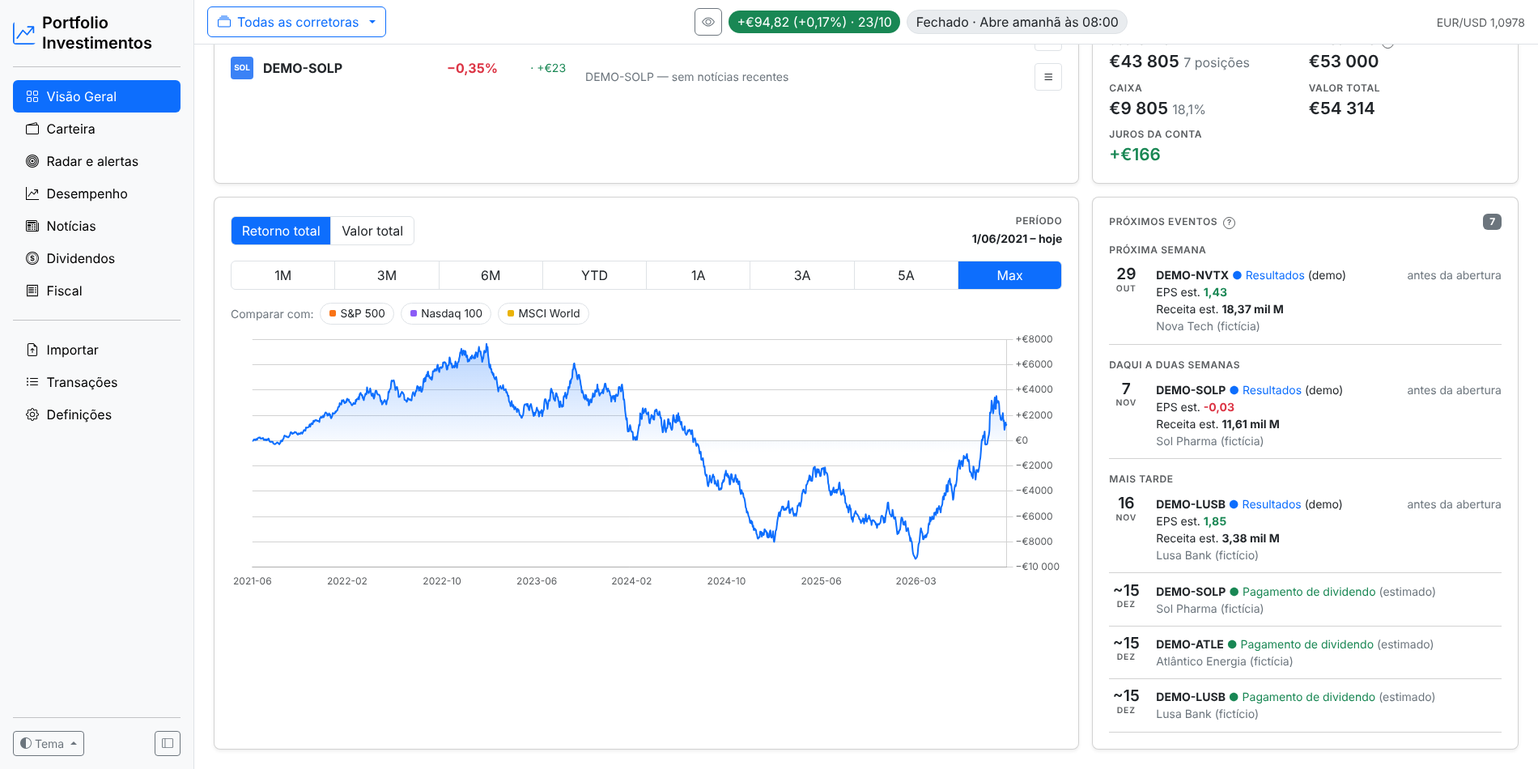
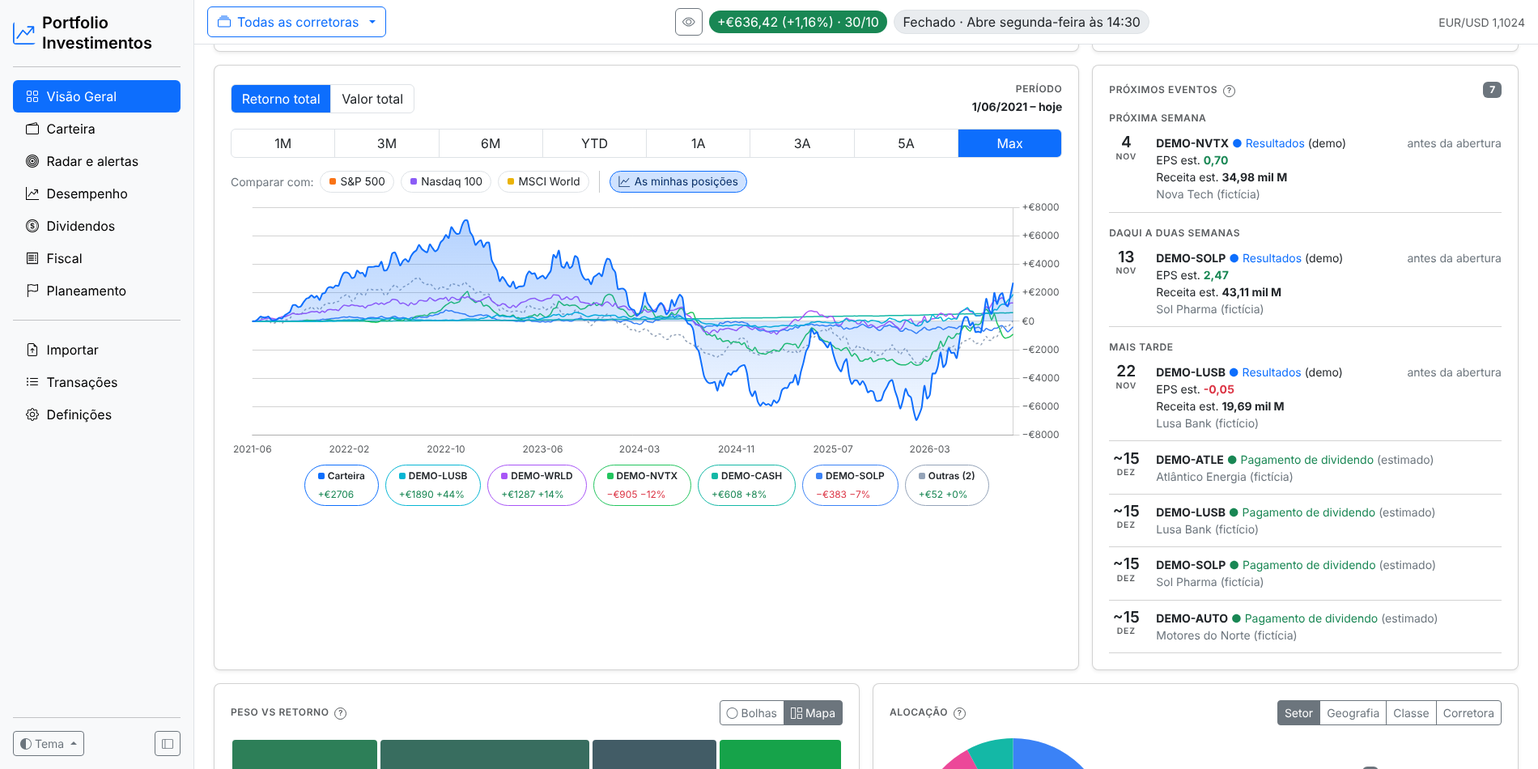
README com capturas novas e descrição das funcionalidades; histórico de alterações
- Capturas de ecrã refeitas com os dados de demonstração (1900×950, modo
  claro e escuro), com as novidades: perfil de investidor e notas, peso vs
  retorno e alocação, as minhas posições no gráfico, mapa de dividendos
  com o próximo ano e datas ex-dividendo, Fiscal por ativo e Planeamento
  (FIRE). Removidas as capturas antigas (incluíam a página Notícias).
- Tabela de funcionalidades atualizada (Visão Geral, Dividendos, Fiscal,
  Planeamento, Importar, Transações e Definições) e corrigida a linha do
  Planeamento, que tinha ficado por engano no meio da tabela das capturas.
- Novo CHANGELOG.md com o que mudou em cada commit (título, resumo e
  issues fechadas), ligado a partir do README.

Claude-Session: https://claude.ai/code/session_01AhMv5rzh4esVFWwNf2sje8

diff --git a/CHANGELOG.md b/CHANGELOG.md
@@ -1,0 +1,161 @@
+# Histórico de alterações
+
+O que mudou em cada commit, do mais recente para o mais antigo (gerado a partir das mensagens dos commits). Os números entre parênteses são as issues do GitHub resolvidas.
+
+## 2026-10-31
+
+- **Planeamento: cor da linha do gráfico no título de cada número FIRE** `fc31f3d`  
+  Os títulos "Para sempre", "Para sempre, com a pensão" e "Até aos N anos" passam a ter a cor e uma amostra da linha tracejada correspondente no gráfico (laranja, roxa e rosa).
+- **Planeamento: números FIRE como linhas tracejadas no gráfico** `cbdbdff`  
+  O gráfico Evolução e projeção mostra os números FIRE como linhas horizontais tracejadas, cada uma com a sua cor e o valor na legenda: laranja "para sempre", roxa "para sempre, com a pensão aos 67" e rosa "até aos N anos, com a pensão aos 67" (estes dois na data FIRE do cenário base). Substitui a curva do capital necessário até ao fim.
+- **Planeamento: número FIRE "para sempre" com a pensão** `082dc56`  
+  Novo bloco "Para sempre, com a pensão" (engine/fire.py, pension_plan): o capital necessário tem duas partes, calculadas mês a mês para trás desde a idade da pensão: - até à pensão, a carteira paga as despesas todas (com o IRS dos levantamentos), a render a taxa real do cenário; - a partir da pensão, o que ela não cobre, pela regra da taxa de levantamento: (despesas − pensão) ÷ (1 − imposto) ÷ taxa. O número depende da idade em que se chega lá; a página mostra-o na data FIRE do cenário base, a parte "depois da pensão", quanto seria preciso hoje e a data nos três cenários. O número "para sempre" de sempre passa a dizer "sem contar com a pensão".
+- **Planeamento: depois da data FIRE deixa de investir e passa a levantar; investir até uma idade** `2d23f9a`  
+  Cada cenário tem agora duas fases (engine/fire.py, simulate): - até à data FIRE junta o investimento mensal, ou só até à idade indicada em "Investir até aos" (novo campo opcional); - a partir da data FIRE deixa de investir e levanta o que as despesas pedem, já com o IRS dos levantamentos, menos a pensão a partir da idade dela. Com a idade preenchida, o gráfico vai até à idade "durar até" e marca a data FIRE de cada cenário; a tabela dos cenários diz a idade na data FIRE e até quando dura o dinheiro (ou o ano em que acaba).
+- **Planeamento: capital necessário até uma idade, com a pensão** `16c3e29`  
+  Além do número FIRE "para sempre" (regra dos 4%), com a idade indicada a página calcula o capital que paga as despesas desde a data FIRE até uma idade (90 anos por omissão) e pode acabar perto de zero: - necessário(mês) = levantamento do mês (despesas menos a pensão, a partir da idade indicada, já com o IRS dos levantamentos) + necessário do mês seguinte descontado à taxa real do cenário; - a data FIRE é o primeiro mês em que a carteira projetada chega ao necessário nesse mês (o último ano não conta); - mostra o capital na data FIRE e a idade, a parte já feita se te reformasses hoje, a data nos três cenários e a curva no gráfico. A pensão líquida mensal conta 14 vezes por ano.
+- **README: Planeamento já existe** `7748e9c`  
+  Atualiza a lista do que falta fazer.
+- **Planeamento: independência financeira (FIRE)** `4f7fd20`  
+  Nova página Planeamento (menu lateral), com o motor em engine/fire.py: - número FIRE = despesas anuais ÷ (1 − imposto efetivo sobre os levantamentos) ÷ taxa de levantamento (4% por omissão); - já feito = valor atual da carteira ÷ número FIRE; - data FIRE em três cenários (3%, 5% e 7% reais ao ano, em euros de hoje), mês a mês com o investimento mensal; - gráfico com o valor real até hoje, as três projeções e o número FIRE; - acompanhamento dos últimos 12 meses (valor, variação e parte feita). Os parâmetros guardam-se (ação save_fire); por omissão, o investimento mensal é a média dos depósitos líquidos dos últimos 12 meses e o imposto é 28% × a parte de ganho da carteira (pelo menos metade). A página também fica disponível offline.
+- **Visão Geral: perfil de investidor com notas, peso vs retorno e alocação** `d090322`  
+  Investor Score e Portfolio Score (0-100, últimos 3 anos), num módulo novo (engine/scores.py): - seis perfis (Passive Index, Concentrated Picker, Diversified Active, Income Focus, Growth/Tech, Active Trader), cada um com as métricas e os pesos do Investor Score; o perfil sugerido sai do comportamento (rotação da carteira) e da composição (ETF, dividendos, tecnologia, nº de ações); o escolhido fica guardado (ação set_profile); - métricas: superação do S&P 500 / MSCI World / Nasdaq 100, fidelidade ao índice, disciplina, paciência, Sharpe, coerência, grandes vencedores, assimetria, acerto, fator de lucro e corte das perdas; - Portfolio Score: concentração, diversificação (setores e países), volatilidade, custos e proximidade ao MSCI World. Cada métrica tem a fórmula e o valor atual no "?"; sem dados suficientes fica "—" e não conta.
+- **Próximos eventos: data de resultados alterada substitui a antiga, e intervalo estimado à vista** `d046a7d`  
+  - Quando o Yahoo muda a data de um evento (ex.: resultados estimados para 12/11 e depois anunciados para 13/11), a data nova substitui a antiga em vez de aparecerem as duas. - Se o Yahoo só tiver um intervalo (duas datas), o evento mostra "estimado: 12/11–17/11" ao lado; com uma só data, é a anunciada. - Os resultados deixam de mostrar "Resultados" duas vezes.
+- **Visão Geral: próximos eventos dos próximos 90 dias** `b621aa1`  
+  A secção Próximos eventos passa de 60 para 90 dias e o grupo "Mais tarde" mostra até 10 eventos (antes 4).
+- **Visão Geral: "As minhas posições" ligado por omissão** `d46bf1f`  
+  O gráfico abre já com as linhas das posições (carregadas logo a seguir à da carteira). Se o desligares, a escolha fica guardada neste dispositivo (localStorage) e a página passa a abrir sem elas.
+- **Visão Geral: "As minhas posições" no gráfico de evolução** `b3f8e89`  
+  Novo botão no gráfico Retorno total / Valor total que acrescenta uma linha por posição: as 5 com maior ganho ou perda no período (em valor absoluto) e as restantes somadas em "Outras (N)". Em Retorno total, a linha é o ganho da posição no período (valor + vendas + dividendos líquidos − compras); em Valor total, o valor de mercado. Por baixo, uma legenda com o ganho em euros e em % de cada uma (e da carteira); um clique esconde ou mostra a linha. As linhas carregam-se a pedido (ação positions) e seguem o período escolhido.
+- **Dividendos: datas ex-dividendo e quem tem direito a cada dividendo** `dc0fe8e`  
+  Nova tabela "Datas ex-dividendo" na página Dividendos (últimos 3 meses e próximos 12), a partir das datas ex e valores por ação do Yahoo: - recebido / a receber: tinhas ações antes da data ex (a quantidade é a que tinhas na véspera); a receber se o pagamento ainda não entrou; - sem direito: compraste depois da data ex; - previsto: data ex do ano anterior + 1 ano (ou a data anunciada pelo calendário do yfinance, se houver), com as ações de hoje. Inclui posições vendidas depois de uma data ex recente, cujo dividendo ainda é teu.
+- **Dividendos: projeção com os dividendos por ação do Yahoo para posições recentes** `bd617de`  
+  A projeção só usava os dividendos recebidos nos últimos 12 meses, por isso posições compradas há pouco (ou que ainda não pagaram desde a compra) ficavam de fora, e podia não haver projeção nenhuma. - Ao atualizar as cotações, guardam-se os dividendos por ação dos últimos ~13 meses de cada posição aberta segundo o Yahoo (eventos "div" do gráfico, também no acesso direto), numa tabela nova. - Na página Dividendos, para cada posição aberta com esses dados, a projeção usa os dividendos por ação do Yahoo × a quantidade atual, nos meses em que foram pagos; as restantes continuam pelos recebidos. A origem aparece ao lado ("(Yahoo)"). - O resumo da atualização diz quantas posições abertas pagam dividendos.
+- **Dividendos: projeção do próximo ano no mapa mensal e explicação da projeção** `a934541`  
+  - O mapa de rendimento por mês tem uma linha para o próximo ano (ex.: 2027*), com cada posição aberta a pagar nos mesmos meses dos últimos 12, com as quantidades atuais. - Por baixo do gráfico Dividendos por ano, a página diz de que posições vem a projeção, ou porque não há projeção (nenhuma posição aberta pagou dividendos nos últimos 12 meses), em vez de mostrar a barra de 2027 vazia sem explicação.
+- **Atualizar cotações: ao voltar à página, o spinner fica no botão que a lançou** `6b23b46`  
+  Ao sair das Definições a meio de uma atualização "Só posições abertas" e voltar, o spinner passava para o botão "Atualizar cotações agora" (a página não sabia qual tinha sido usado) e o progresso só aparecia se o pedido calhasse no mesmo processo do servidor. Agora o estado guardado leva também o modo e o progresso (ativo em curso, n/total), e a página escolhe o botão certo e mostra o progresso ao voltar.
+- **Definições → Ativos: por omissão só as posições abertas, com filtro à parte para as sem cotações** `c723425`  
+  O filtro misturava as posições abertas com os ativos vendidos sem nenhuma cotação, por isso mostrava mais do que as posições abertas (ex.: 18 em vez de 10). Agora há três filtros: Posições abertas (por omissão), Sem cotações (abertas ou vendidas) e Todos, cada um com a sua contagem.
+- **Definições → Ativos: o filtro já não inclui vendidos que têm cotações** `cc84f95`  
+  O filtro "Posições abertas e sem cotações" usava a lista de ativos sem cotações da última atualização, que pode estar desatualizada e levava ativos vendidos, com cotações, para a lista. Agora um ativo vendido só entra se não tiver nenhuma cotação guardada; as posições abertas entram sempre. Cada linha diz porquê ("· aberta" ou "vendido · sem cotações") e o botão explica a contagem.
+- **README: sem as notícias** `75c286c`  
+  Atualiza a descrição das páginas e das cotações depois de as notícias terem sido retiradas.
+- **Retira as notícias da aplicação e corrige o botão de atualizar a rodar para sempre** `a4023b9`  
+  Notícias (a pedido): retiradas da atualização de cotações e do interface (página Notícias, menu, Visão Geral, modo offline). Fica só a atualização de cotações, câmbios, eventos e setor. Saem também o acesso às notícias do Yahoo e do Google Notícias, e a tabela news é apagada por uma migração (versão 3 do esquema, com cópia automática antes). O resumo da atualização mostra agora a fase dos eventos ("[eventos 3/10]").
+- **Notícias: não esperar pelo 429 do Yahoo e usar o Google Notícias como alternativa** `8b63064`  
+  Do PythonAnywhere o Yahoo responde 429 às notícias (as cotações funcionam), e cada ativo esperava cerca de 15 s por tentativas inúteis. - As notícias do acesso direto tentam só 2 vezes (em vez de 4, com esperas) por ativo. - Depois de 2 ativos seguidos com 429, a fase das notícias pára e o resumo diz que o Yahoo está a limitar os pedidos a partir do servidor. - Se o Yahoo não deu notícias, tenta o feed RSS do Google Notícias pesquisando pelo nome do ativo (a fonte aparece como o jornal).
+- **Notícias: RSS da página do ativo como alternativa, e diagnóstico do que cada via devolve** `683c0e5`  
+  O Yahoo Finance mostra notícias para ativos como o FINV, mas a atualização trazia 0: nem o yfinance nem a pesquisa do acesso direto as devolviam. - O acesso direto passa a usar também o feed RSS da página do ativo (feeds.finance.yahoo.com) quando a pesquisa vem vazia. - O resumo da atualização diz o que cada via devolveu nos primeiros ativos sem notícias ("yfinance 0; direto 0 (RSS: HTTP 403)"), e cada ativo da fase das notícias mostra o resultado e o tempo. - --testar-yahoo testa também as notícias do AAPL e do FINV.
+- **Atualização: contador só dos ativos a atualizar, tempo por ativo e spinner no botão certo** `cba9d96`  
+  - Só posições abertas: o contador [n/total] conta apenas essas (e os índices de comparação), não todos os ativos da base de dados. - Cada linha do progresso leva o tempo que o ativo demorou, para se ver qual é o lento (ex.: o Yahoo a limitar os pedidos). - A fase das notícias, eventos e setor, que pede 2 a 3 ligações por posição aberta, também aparece ("[notícias 3/10] VWCE.DE"). - O spinner e o texto de progresso aparecem só no botão em que se carregou; o outro fica apenas desativado.
+- **Corrige o teste da atualização em segundo plano para o novo argumento** `51665c3`  
+  A função simulada de refresh_all passa a aceitar only_open.
+- **Atualizar cotações só das posições abertas** `b2519ca`  
+  Nova opção para atualizar apenas os ativos que estão na carteira (e os índices de comparação), sem pedir as posições já vendidas nem os seus câmbios: botão "Só posições abertas" em Definições, --abertas na consola e atualizar-cotacoes.sh --abertas. O botão de sempre continua a atualizar tudo.
+- **Cala o aviso de obsolescência do pandas vindo do yfinance** `3416ee2`  
+  O yfinance 1.x com o pandas 3.1 emite um Pandas4Warning a cada pedido ("The inplace keyword in DataFrame.sort_index is deprecated"), que o pandas volta a ativar mesmo com PYTHONWARNINGS=ignore. Passa a ignorar-se só os avisos atribuídos ao módulo yfinance, ao carregá-lo.
+- **Atualização de cotações mostra cada ativo e o último fecho, em direto** `105d579`  
+  refresh_all aceita uma função de progresso, chamada a cada ativo com "[n/total] SÍMBOLO: N cotações · último fecho 227.10 EUR (23/10/2026)". Na consola (--refresh) as linhas aparecem à medida que a atualização avança, em vez de só no fim. O resumo guardado em Definições também passa a incluir o último fecho. O botão Atualizar cotações agora mostra o ativo em curso ("12/280 · VWCE.DE") enquanto corre.
+- **Script atualizar-cotacoes.sh para consola e tarefas agendadas** `34d3e1e`  
+  Corre a atualização de cotações (--refresh) com o virtualenv e a pasta de dados certos (por omissão ~/.virtualenvs/pi e ~/dados, configuráveis com VENV e PORTFOLIO_DATA_DIR), para usar numa consola Bash ou numa tarefa agendada do PythonAnywhere.
+
+## 2026-10-30
+
+- **Fiscal: resumo por ativo, com as linhas FIFO a pedido e no CSV** (#13) `59edd75`  
+  A página gerava uma linha por lote FIFO vendido (mais de 1 100 linhas e 499 KB com um histórico real). Agora mostra uma linha por ativo (linhas, quantidade, realização, aquisição, mais/menos-valia); o botão Lotes abre uma janela com as linhas desse ativo, carregadas a pedido (/fiscal/lotes). O CSV passa a ser gerado no servidor (/fiscal.csv) com todas as linhas FIFO do ano, pela ordem do formulário. Com os dados de teste (900 compras fracionadas) a página passa de centenas de KB para 14 KB.
+- **Visão Geral: gráfico de evolução de 314 KB para cerca de 16 KB** (#12) `6ef6199`  
+  A página embutia todo o resultado do desempenho (métricas de risco, rendimentos mensais, drawdown…) quando o gráfico só desenha datas, ganho, valor e a variação dos índices. Agora o payload tem só isso, com os valores arredondados (cêntimos nos euros, 5 casas nas variações) e, de 3 anos para cima, só o último dia de cada semana (mais o primeiro e o último pontos). A ação performance, usada pelos botões de período, devolve o mesmo formato. Na página Desempenho, o JSON dos gráficos também é arredondado.
+
+## 2026-10-29
+
+- **Teste do iniciar.bat no Windows: saída visível e limites de tempo** `86564b9`  
+  Os passos passam a correr em PowerShell com a saída à vista (Tee-Object) e com limite de tempo, para se perceber onde falha em vez de ficar pendente.
+- **iniciar.bat: volta a abrir-se depois de atualizar, e teste no Windows** `e36506d`  
+  O cmd lê os .bat por posição no ficheiro; quando a atualização muda o próprio iniciar.bat, continuar a ler o ficheiro trocado podia executar lixo. Agora, depois do git pull, o iniciar.bat abre a versão nova e sai. Também: PORTFOLIO_ATUALIZAR=S atualiza sem perguntar e =N nunca atualiza, e a verificação passa a ser feita fora de blocos para o NOVAS ser lido sempre atualizado.
+- **Versão do esquema da base de dados com migrações, e cópias automáticas** (#23, #24) `0ca6115`  
+  Migrações (#23): a base de dados guarda a versão do esquema (PRAGMA user_version) e os passos pendentes de migrations.py correm por ordem, cada um numa transação (BEGIN explícito, porque o sqlite3 não abre uma para o DDL). Antes de migrar faz-se uma cópia; se um passo falhar, a base fica como estava e a mensagem diz onde está a cópia. Uma base nova nasce na versão mais recente e uma base de uma versão futura não é aberta. Os dois passos existentes (result, last_quote) são idempotentes, por isso as bases antigas, sem versão, migram sem perdas. Substitui models.migrate().
+- **Estado do mercado com feriados e com as bolsas dos EUA** (#26) `1a7049e`  
+  O indicador usava só o horário fixo da Euronext, sem feriados, e dava "Fechado" quando a Nasdaq ainda estava aberta. Agora: - calcula os feriados da Euronext/Xetra e da NYSE/Nasdaq (Páscoa, feriados móveis e a regra do fim de semana), com sessões reduzidas nos EUA a 24 de dezembro e na sexta a seguir ao Dia de Ação de Graças; - o horário dos EUA vem de Nova Iorque (9:30-16:00), por isso acompanha as semanas em que as horas de verão não coincidem; - mostra as bolsas onde há posições abertas (sufixo .US, sem sufixo ou em USD = EUA; as restantes = Europa), por exemplo "Europa: fechado · EUA: aberto até às 21:00".
+- **Definições → Ativos: filtro, pesquisa e estado das cotações** (#15) `865c439`  
+  Com um histórico real eram cerca de 280 formulários numa só página. Agora, por omissão, só se mostram as posições abertas e os ativos sem cotações, com um botão "Todos" e uma caixa de pesquisa (ticker, nome ou ISIN; ?ativo=XXX abre a pesquisa já preenchida). Cada linha mostra o último fecho e a data, ou "sem cotações".
+- **Remove importação sem uso nos testes** `c060074`  
+  Apanhado pelo ruff na integração contínua.
+- **Atualização de cotações incremental (só os dias em falta)** (#11) `9cc064a`  
+  Cada atualização pedia o histórico completo de todos os ativos. Agora: - guarda-se o último fecho obtido com o símbolo validado (last_quote) e pedem-se só os últimos dias (com 5 dias de folga para correções); - posições fechadas cujas cotações já cobrem a última transação não se pedem; - a pesquisa completa de símbolos só corre para ativos por validar, com o símbolo alterado, com transações mais antigas do que as cotações guardadas ou depois de um desdobramento; - os câmbios também pedem só os dias novos. O resumo da atualização indica quantos ativos foram incrementais.
+- **Remove uv.lock criado por engano** `56e74d0`  
+  Ficheiro gerado ao testar com uv; não faz parte do projeto.
+- **Integração contínua: testes e ruff no GitHub Actions** (#16) `0ff813b`  
+  Workflow que corre o pytest em Python 3.10 e 3.13, em Linux e Windows, e o ruff (erros de sintaxe, importações e nomes por usar) em cada push e pull request. Configuração do ruff no pyproject.toml, distintivo no README e correção dos 5 avisos que o ruff apontou (variável l, importação sem uso).
+- **Substitui datetime.utcnow e utcfromtimestamp, obsoletos desde o Python 3.12** (#19) `133236c`  
+  Usa datetime.now(timezone.utc) e datetime.fromtimestamp(ts, timezone.utc), guardando as datas sem fuso para manter a compatibilidade com os dados já gravados no SQLite.
+- **Unificar o mesmo título com dois tickers (XTB e Trade Republic)** (#3) `59e77db`  
+  Os ativos da XTB não têm ISIN e a Trade Republic usa o ISIN como ticker, por isso o mesmo ETF aparecia como dois ativos, um deles sem cotações. Agora: - ao atualizar as cotações, se um ativo com o ISIN como ticker se resolve para o símbolo de outro ativo na mesma moeda, os dois são juntados (transações e alertas passam para o ativo da bolsa, que fica com o ISIN; as novas importações da Trade Republic já caem nele); - em Definições → Ativos há também "Juntar X em Y" para o fazer à mão.
+- **Cópia de segurança gerada com a API de backup do SQLite** (#10) `6327ad0`  
+  O botão enviava o ficheiro da base de dados em uso; com uma atualização de cotações ou importação a escrever, a cópia podia ficar a meio. Agora a cópia é gerada com sqlite3.Connection.backup, consistente mesmo com escritas em curso, e enviada a partir de um ficheiro temporário.
+- **Venda manual acima da quantidade detida é recusada** (#9) `7ae12c9`  
+  add_transaction só validava quantity > 0. Uma venda (ou transferência/ conversão de saída) acima do que se tem na data era aceite e o motor tratava a diferença como posição anterior ao histórico, com um aviso enganador. Agora responde "Só tens X unidades de ATIVO em dd/mm/aaaa." As importações continuam a aceitar o caso (posições anteriores ao histórico).
+- **Apagar tudo limpa também o estado da atualização de cotações** (#8) `60aefab`  
+  reset_data só limpava as definições broker e demo; ficavam last_refresh, refresh_* e hide_banner, e o aviso "Ainda não atualizaste as cotações" deixava de aparecer depois de apagar todas as cotações.
+- **API: mensagens em vez de erro 500 em entradas inválidas** (#7) `cf4f524`  
+  Renomear uma corretora para um nome existente e pedir o desempenho com índices que não são JSON válido davam erro 500. Agora respondem com uma mensagem. A conversão de TypeError em "Faltam dados no pedido." passa a ser só a verificação dos argumentos antes de chamar a ação, para não esconder erros de programação.
+- **Scripts de arranque reinstalam as dependências em falta** (#6) `2e09db9`  
+  iniciar.sh e iniciar.bat só instalavam quando a pasta .venv não existia: uma instalação interrompida, ou uma dependência nova numa versão nova, deixava a aplicação sem arrancar (ModuleNotFoundError). Agora um marcador (cópia de requirements.txt, criada só no fim da instalação) faz reinstalar se faltar ou se a lista mudar. O iniciar.bat deixa de reinstalar à parte depois da atualização.
+- **Fiscal: o crédito de imposto estrangeiro é limitado a cada dividendo** (#4) `354e031`  
+  O crédito por dupla tributação era calculado sobre os totais do ano, por isso a retenção acima de 28% num dividendo (ex.: 30% nos EUA) abatia o imposto de outros dividendos e a estimativa ficava abaixo do devido. Agora soma-se, dividendo a dividendo, max(bruto x 28% - retenção, 0).
+- **Seletor de corretoras conta as posições abertas como a Carteira** (#5) `b063c9d`  
+  O seletor só somava compras e vendas, por isso ações transferidas, conversões e desdobramentos contavam como posições abertas. Agora usa as posições abertas do próprio motor (já em cache entre pedidos).
+- **Importação: linhas iguais no mesmo dia já não são descartadas** (#2) `392ec11`  
+  Sem identificador, duas ordens iguais no mesmo ficheiro (planos de investimento, ordens em partes) ficavam com a mesma impressão digital e a segunda era descartada como duplicada. Agora as repetidas juntam o nº de ordem; a primeira mantém a impressão de sempre, por isso reimportar o mesmo ficheiro continua a ser detetado como duplicado.
+- **Transferências e conversões manuais já têm ativo** (#1) `e950cd6`  
+  O formulário só associava o ativo a compras, vendas e dividendos; uma transferência ou conversão gravada sem ativo dava erro 500 em todas as páginas. Agora a API associa o ativo (e exige ticker e quantidade) nos sete tipos que o precisam, e o motor ignora, com aviso, transações de ativo sem ativo já gravadas.
+
+## 2026-10-27
+
+- **iniciar.bat: atualiza por omissão passados 10 segundos** `22bff42`  
+  Antes, sem resposta à pergunta, assumia N e a atualização nunca acontecia num duplo clique. Agora só a resposta N a salta.
+
+## 2026-10-26
+
+- **XTB: extrato de um período curto já não duplica as posições** `3d978be`  
+  As posições abertas (ou vendidas) cuja compra é anterior ao início do extrato ("Date from (UTC)") eram tratadas como ações recebidas de outra corretora, somando-se às compras já importadas. Agora ficam ignoradas quando a corretora já tem histórico; na primeira importação continuam a entrar como transferências.
+
+## 2026-10-25
+
+- **iniciar.bat: verifica atualizações ao arrancar (git clone)** `691313c`  
+  Com a pasta instalada por git clone, faz git fetch e, se houver versão nova, pergunta se deve atualizar (S/N; sem resposta em 10 s arranca a versão atual). Atualiza com git pull --ff-only e reinstala as dependências. Sem git, sem internet ou com ficheiros alterados, arranca na mesma. .gitattributes mantém os .bat com fins de linha CRLF.
+- **PWA: consulta offline das últimas páginas (Disponível offline)** `b21981f`  
+  - Nova opção em Definições, desligada por omissão: as páginas de consulta ficam guardadas pelo service worker (cabeçalho X-PM-Offline) e podem ser vistas com a aplicação parada, só para leitura. - Faixa "Modo offline" com a data dos dados; ações bloqueadas com aviso; recarrega sozinha quando a aplicação volta (/ping). - Desligar a opção ou sair apaga a cópia. - offline.html lista as páginas guardadas. - Arranque: SO_REUSEADDR na deteção de porta ocupada (evita falsos "porta ocupada" logo após reiniciar).
+- **Desempenho: taxa sem risco, períodos completos e aviso sem cotações** `e6b8171`  
+  - Taxa sem risco de 2% ao ano por omissão (era 0%, o que inflacionava o Sharpe, o Sortino e o alfa), ajustável em Definições → Dados de mercado (ação set_risk_free, 0 a 20%). A ajuda do Sharpe mostra a taxa usada. - O mês e o ano em curso deixam de contar para o melhor/pior mês e ano e para a sequência atual (só períodos completos). - Sem cotações de mercado, o aviso na página Desempenho explica que a volatilidade, o drawdown, o Sharpe e a comparação com o mercado ficam distorcidos. - Testes e README.
+- **Desempenho: índices em euros e volatilidade só com dias úteis** `bfd622e`  
+  - Os índices de referência (S&P 500, Nasdaq 100, MSCI World) eram comparados na moeda deles (dólares) com a carteira em euros. Uma carteira igual ao S&P 500 aparecia 20 pontos abaixo do índice num ano em que o dólar caiu 20%. Passam a ser convertidos para euros ao câmbio de cada dia: gráfico, TWR e CAGR dos índices, mérito (alfa, beta, captura, meses acima do mercado) e "Carteira vs mercado". - A volatilidade (e com ela Sharpe e Sortino) contava os pontos do fim de semana, que existem quando há juros diários, como dias de bolsa com variação nula. Com 365 pontos por ano anualizados com 252, ficava ~16% abaixo do real. Passa a usar só dias úteis. - Testes das duas correções; README e ajuda de "Carteira vs mercado".
+- **Logótipo da Trade Republic e contorno nos logótipos** `12963be`  
+  - Logótipo da Trade Republic (fica completo o conjunto: Trading 212, XTB e Trade Republic). - Contorno subtil à volta dos logótipos, para os de fundo branco não se confundirem com os cartões no modo claro.
+- **Logótipo da XTB** `bc11018`
+- **Logótipos das corretoras (Trading 212)** `65b00ac`  
+  - O seletor de corretoras e os cartões da página Importar mostram o logótipo da corretora quando existe em static/icons/brokers/<chave>.svg ou .png (trading212, xtb, traderepublic); as outras continuam com a letra inicial. - A corretora é reconhecida pelo nome, para o logótipo aparecer também em corretoras criadas na importação com um nome próprio. - Primeiro logótipo: Trading 212.
+- **Yahoo sem yfinance: tentativas, autorização e motivo das falhas** `bdafabc`  
+  Sem o yfinance (Android), nenhum ativo recebia cotações e o resumo só dizia "sem cotações", porque os erros de cada pedido eram descartados.
+- **Cotações sem yfinance: acesso direto ao Yahoo Finance (Android)** `1da3caf`  
+  No Android/Termux o yfinance não instala (a dependência curl_cffi não suporta o processador: "Unsupported arch ... armv8l"), por isso não havia forma de atualizar cotações e os valores usavam os preços das transações.
+- **Arranque: escolhe uma porta livre quando a 5000 está ocupada** `caf5ca6`  
+  Mesmo depois de parar a aplicação, a porta 5000 pode continuar ocupada por outro processo (ex.: uma sessão da versão anterior ou outra aplicação do Android), e o arranque falhava.
+- **Arranque: não falha quando a aplicação já está a correr** `034e4ad`  
+  Arrancar uma segunda vez (ex.: no Termux, com uma sessão anterior ainda em segundo plano) terminava com "OSError: [Errno 98] Address already in use".
+- **Corrige os botões para esconder e mostrar a barra lateral** `3c983e1`  
+  - Com a barra recolhida (76 px), os botões do fundo ficavam lado a lado e o de expandir ficava fora da barra, sem forma de a voltar a abrir (pior ainda com o botão Sair, quando há palavra-passe). Passam a ficar em coluna, só com o ícone. - No telemóvel, a barra aberta tapava o botão ☰ e não havia forma de a fechar sem escolher uma opção. Agora fecha com o botão ✕ no topo da barra, tocando fora dela (fundo escurecido) ou com a tecla Esc.
+- **Importar extratos pela linha de comandos (--importar)** `db44fec`  
+  No Android, escolher o ficheiro no browser pode levar o sistema a suspender o Termux, e a importação falha sem ligação à aplicação.
+- **Importar: lê o ficheiro antes de enviar e explica falhas de ligação** `78161af`  
+  No Android, escolher um extrato e importar podia acabar só com "Failed to fetch", sem explicação. Acontece quando o Termux é suspenso ou fechado enquanto o seletor de ficheiros está aberto, ou quando o browser não consegue ler o ficheiro (ex.: ficheiro do Google Drive que não está no telemóvel, ou alterado depois de escolhido).
+- **Corrige o arranque sem base de dados de fusos horários (Android/Termux)** `0a8fa87`  
+  No Termux (e no Windows, quando o yfinance não é instalado) não existe a base de dados de fusos horários do sistema, e ZoneInfo("Europe/Lisbon") fazia a aplicação falhar logo ao arrancar com ZoneInfoNotFoundError.
+- **Muda o nome da aplicação para Portfolio Investimentos** `7f0cb2a`  
+  - Nome mostrado (títulos, login, aplicação instalável, README, NOTICE e scripts de arranque): Portfolio Investimentos. Na barra lateral fica em duas linhas, para caber. - Pacote Python portfolio_manager → portfolio_investimentos; comando python -m portfolio_investimentos e portfolio-investimentos. Os scripts iniciar.* continuam a funcionar da mesma forma. - Pasta de dados no macOS/Linux: ~/.portfolio-investimentos. A pasta ~/.portfolio-manager das versões anteriores muda de nome sozinha, como já acontecia no Windows. - Service worker com versão nova, para os browsers largarem a cache antiga. - Capturas de ecrã do README geradas de novo com o nome novo.
+- **Muda a pasta de dados no Windows para PortfolioInvestimentos** `ebe6328`  
+  - Os dados passam a ficar em %APPDATA%\PortfolioInvestimentos. - Na primeira execução, a pasta PortfolioManager das versões anteriores muda de nome automaticamente; se não for possível (ex.: ficheiro aberto noutro programa), continua a ser usada, para não se perderem dados. - README atualizado e teste da mudança de nome.
+- **Portfolio Manager** `1164a8e`  
+  Gestor de carteira de investimentos local: desempenho, dividendos, fiscalidade (PT) e importação de extratos da Trading 212, XTB e Trade Republic. Corre no próprio computador (Flask + SQLite), com interface Bootstrap em modo claro e escuro, login opcional com palavra-passe, instalação como PWA e script para Android (Termux).
+- **Initial commit** `6e09c29`

diff --git a/README.md b/README.md
@@ -108,40 +108,47 @@ python -m portfolio_investimentos --importar extrato.xlsx  # importa extratos (c
 python -m portfolio_investimentos --testar-yahoo  # testa a ligação ao Yahoo Finance e sai
 ```
 
+O que mudou em cada versão está no [histórico de alterações](CHANGELOG.md).
+
 ## Capturas de ecrã
 
-As capturas usam os dados de demonstração.
+As capturas usam os dados de demonstração (empresas e preços fictícios).
 
 ### Modo claro
 
-| Visão Geral | Evolução e próximos eventos |
+| Visão Geral | Evolução, as minhas posições e próximos eventos |
 | --- | --- |
 | ![Visão Geral](docs/screenshots/01-visao-geral.png) | ![Evolução](docs/screenshots/02-visao-geral-evolucao.png) |
+| **Peso vs retorno e alocação** | **Perfil de investidor** |
+| ![Peso vs retorno e alocação](docs/screenshots/03-visao-geral-peso-alocacao.png) | ![Perfil de investidor](docs/screenshots/04-perfil-investidor.png) |
 | **Carteira** | **Alocação** |
-| ![Carteira](docs/screenshots/03-carteira.png) | ![Alocação](docs/screenshots/04-carteira-alocacao.png) |
+| ![Carteira](docs/screenshots/05-carteira.png) | ![Alocação](docs/screenshots/06-carteira-alocacao.png) |
 | **Desempenho** | **Como foi a jornada** |
-| ![Desempenho](docs/screenshots/05-desempenho.png) | ![Jornada](docs/screenshots/06-desempenho-jornada.png) |
+| ![Desempenho](docs/screenshots/07-desempenho.png) | ![Jornada](docs/screenshots/08-desempenho-jornada.png) |
 | **Retornos mensais** | **Mérito vs mercado** |
-| ![Retornos mensais](docs/screenshots/07-desempenho-mensal.png) | ![Mérito](docs/screenshots/08-desempenho-merito.png) |
+| ![Retornos mensais](docs/screenshots/09-desempenho-mensal.png) | ![Mérito](docs/screenshots/10-desempenho-merito.png) |
 | **Risco e análise avançada** | **Dividendos** |
-| ![Risco](docs/screenshots/09-desempenho-risco.png) | ![Dividendos](docs/screenshots/10-dividendos.png) |
-| **Mapa de rendimento** | **Fiscal** |
-| **Planeamento** | Independência financeira (FIRE): o número FIRE já depois do IRS, a parte já feita, a data em três cenários (3%, 5% e 7% reais ao ano) com o investimento mensal, e o acompanhamento mês a mês. |
-| ![Mapa de dividendos](docs/screenshots/11-dividendos-mapa.png) | ![Fiscal](docs/screenshots/12-fiscal.png) |
+| ![Risco](docs/screenshots/11-desempenho-risco.png) | ![Dividendos](docs/screenshots/12-dividendos.png) |
+| **Mapa de rendimento e datas ex-dividendo** | **Fiscal** |
+| ![Mapa de dividendos](docs/screenshots/13-dividendos-mapa.png) | ![Fiscal](docs/screenshots/14-fiscal.png) |
+| **Planeamento (FIRE)** | **Evolução e projeção** |
+| ![Planeamento](docs/screenshots/15-planeamento.png) | ![Projeção](docs/screenshots/16-planeamento-projecao.png) |
 | **Radar e alertas** | **Importar extrato** |
-| ![Radar](docs/screenshots/13-radar.png) | ![Importar](docs/screenshots/14-importar.png) |
+| ![Radar](docs/screenshots/17-radar.png) | ![Importar](docs/screenshots/18-importar.png) |
 | **Transações** | **Definições** |
-| ![Transações](docs/screenshots/15-transacoes.png) | ![Definições](docs/screenshots/16-definicoes.png) |
+| ![Transações](docs/screenshots/19-transacoes.png) | ![Definições](docs/screenshots/20-definicoes.png) |
 
 ### Modo escuro
 
-| Visão Geral | Carteira |
+| Visão Geral | Peso vs retorno e alocação |
 | --- | --- |
-| ![Visão Geral (escuro)](docs/screenshots/escuro/01-visao-geral.png) | ![Carteira (escuro)](docs/screenshots/escuro/02-carteira.png) |
-| **Desempenho** | **Retornos mensais** |
-| ![Desempenho (escuro)](docs/screenshots/escuro/03-desempenho.png) | ![Retornos mensais (escuro)](docs/screenshots/escuro/04-desempenho-mensal.png) |
-| **Dividendos** | **Importar extrato** |
-| ![Dividendos (escuro)](docs/screenshots/escuro/05-dividendos.png) | ![Importar (escuro)](docs/screenshots/escuro/06-importar.png) |
+| ![Visão Geral (escuro)](docs/screenshots/escuro/01-visao-geral.png) | ![Peso vs retorno (escuro)](docs/screenshots/escuro/02-visao-geral-peso-alocacao.png) |
+| **Carteira** | **Desempenho** |
+| ![Carteira (escuro)](docs/screenshots/escuro/03-carteira.png) | ![Desempenho (escuro)](docs/screenshots/escuro/04-desempenho.png) |
+| **Retornos mensais** | **Dividendos** |
+| ![Retornos mensais (escuro)](docs/screenshots/escuro/05-desempenho-mensal.png) | ![Dividendos (escuro)](docs/screenshots/escuro/06-dividendos.png) |
+| **Planeamento** | **Importar extrato** |
+| ![Planeamento (escuro)](docs/screenshots/escuro/07-planeamento.png) | ![Importar (escuro)](docs/screenshots/escuro/08-importar.png) |
 
 O tema escolhe-se no botão **Tema**, no fundo da barra lateral: Claro, Escuro ou Automático.
 
@@ -149,15 +156,16 @@ O tema escolhe-se no botão **Tema**, no fundo da barra lateral: Claro, Escuro o
 
 | Página | O que mostra |
 | --- | --- |
-| **Visão Geral** | Valor da carteira, variação diária, retorno total e do ano corrente; máximo histórico (carteira ou retorno); Investor Score e Portfolio Score por perfil de investidor (Passive Index, Concentrated Picker, Diversified Active, Income Focus, Growth/Tech, Active Trader); peso vs retorno (mapa e bolhas); alocação por setor, geografia, classe e corretora; principais movers; resultados (não realizado, realizado, dividendos, comissões) e conta (custo base, depositado, caixa, juros); gráfico de evolução com períodos (1M a Máx) e comparação com S&P 500, Nasdaq 100 e MSCI World; próximos eventos (resultados, ex-dividendo, pagamentos estimados). |
+| **Visão Geral** | Valor da carteira, variação diária, retorno total e do ano corrente; máximo histórico (carteira ou retorno). **Perfil de investidor**: Investor Score e Portfolio Score (0-100, últimos 3 anos) com seis perfis (Passive Index, Concentrated Picker, Diversified Active, Income Focus, Growth/Tech, Active Trader), o perfil sugerido pela carteira e a fórmula de cada métrica no «?». Principais movers; resultados e conta. Gráfico de evolução (retorno ou valor, 1M a Máx) com comparação com S&P 500, Nasdaq 100 e MSCI World e **as minhas posições** (as 5 com maior ganho ou perda e as restantes somadas, ligado por omissão). Próximos eventos dos próximos 90 dias (resultados, com o intervalo quando ainda é estimado, ex-dividendo e pagamentos). **Peso vs retorno** (mapa e bolhas) e **alocação** por setor, geografia, classe e corretora. |
 | **Carteira** | Posições abertas/fechadas, carteira vs mercado no dia, filtros por setor, pesquisa, tabela ordenável (preço, 1D, preço médio, investido, valor, não realizado, dividendos, efeito cambial, comissões, ROI, peso) e alocação por ativo, setor e moeda. |
 | **Desempenho** | Retorno total e IRR, TWR e CAGR vs índice, melhor/pior ano e mês, sequência atual; TWR anual e acumulado; drawdown; mapa de retornos mensais; mérito vs mercado (captura em alta/baixa, beta, % de meses acima do mercado); risco (Sharpe, Sortino, Calmar, volatilidade, max drawdown); alfa de Jensen e distribuição mensal ordenada. |
-| **Dividendos** | Recebido líquido/bruto e retenção na fonte, maior pagador, meses com dividendos, rendimento anualizado, projeção do ano e dos próximos 12 meses, crescimento anual, dividendos por ano, decomposição do crescimento, mapa mensal, yield on cost e histórico. |
-| **Fiscal** | Por ano: mais-valias pelo método FIFO (linha a linha, exportáveis em CSV), dividendos, juros e estimativa de imposto a 28% (Portugal). |
+| **Dividendos** | Recebido líquido/bruto e retenção na fonte, maior pagador, meses com dividendos, rendimento anualizado, crescimento anual. **Projeção** do ano e dos próximos 12 meses com os dividendos recebidos e, para posições recentes, os dividendos por ação do Yahoo, com a origem de cada valor. Dividendos por ano, decomposição do crescimento, **mapa mensal com a linha do próximo ano**, **datas ex-dividendo** (recebido, a receber, sem direito por ter comprado depois, previsto), yield on cost e histórico. |
+| **Fiscal** | Por ano: mais-valias pelo método FIFO resumidas por ativo (as linhas de cada lote abrem a pedido e vão todas no CSV), dividendos com o crédito de imposto estrangeiro limitado a cada dividendo, juros e estimativa de imposto a 28% (Portugal). |
+| **Planeamento** | Independência financeira (FIRE): o número FIRE «para sempre» (regra dos 4%), «para sempre, com a pensão» e «até aos N anos, com a pensão», já depois do IRS dos levantamentos; a parte já feita; a data em três cenários (3%, 5% e 7% reais ao ano), a investir até à data FIRE (ou até uma idade) e a levantar daí em diante; o gráfico da vida inteira com os números FIRE a tracejado; até quando dura o dinheiro em cada cenário; acompanhamento mês a mês. |
 | **Radar e alertas** | Alertas de preço (acima, abaixo, variação diária) e lista de observação com preço-alvo. |
-| **Importar** | Extratos da Trading 212 (CSV), XTB (XLSX), Trade Republic (CSV) e CSV genérico, com deduplicação (podes carregar o mesmo ficheiro várias vezes) e histórico de extratos. |
-| **Transações** | Lista filtrável, inserção manual e exportação CSV. |
-| **Definições** | Corretoras, ativos (setor, símbolo de dados, cor), atualização de cotações, cópia de segurança, demonstração e limpeza de dados. |
+| **Importar** | Extratos da Trading 212 (CSV), XTB (XLSX), Trade Republic (CSV) e CSV genérico, com deduplicação (podes carregar o mesmo ficheiro várias vezes) e histórico de extratos. Antes de importar fica uma cópia automática da base de dados. |
+| **Transações** | Lista filtrável, inserção manual (com validação da quantidade detida nas vendas) e exportação CSV. |
+| **Definições** | Corretoras; ativos com filtro (posições abertas, sem cotações, todos), pesquisa, último fecho e «Juntar» para o mesmo título com dois tickers; atualização de cotações (todas ou só as posições abertas, com o progresso ativo a ativo); taxa sem risco; disponível offline; cópias de segurança automáticas com «Restaurar»; demonstração e limpeza de dados. |
 
 Também há um seletor de corretora (todas ou uma conta específica) e um botão com um olho que esconde os valores.
 
